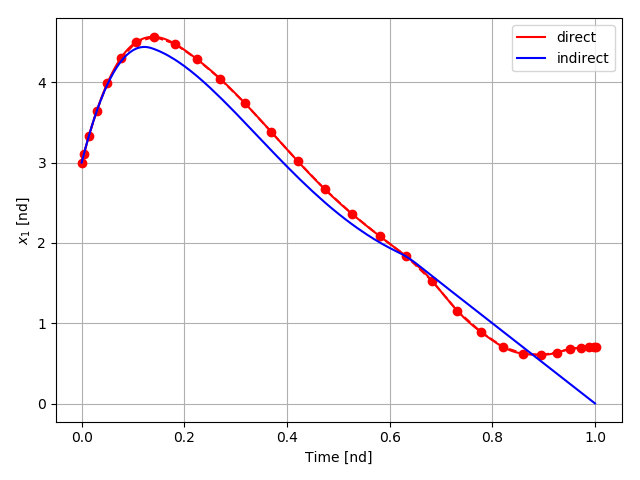
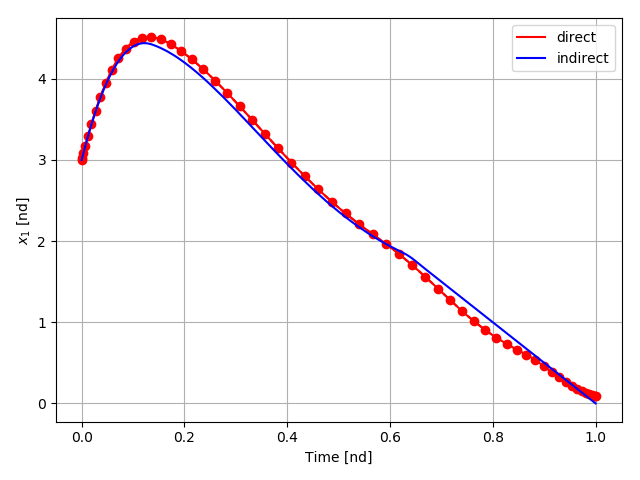
Ref None Some tweaks in solution quality and parameters

Changed region(s): [[0.0625, 0.0625, 0.9688, 0.8438], [0.75, 0.875, 0.7812, 0.9375]]

diff --git a/examples/10-financialoscillator/financialoscillator.py b/examples/10-financialoscillator/financialoscillator.py
@@ -60,7 +60,7 @@ ocp_direct.constraints().path('u', 'rad', lower=-2, upper=2, activator=None)
 ocp_direct.constraints().terminal('t - 1', 'nd')
 ocp_direct.constraints().terminal('tau - 1', 'nd')
 
-bvp_solver_direct = beluga.bvp_algorithm('Pseudospectral', number_of_nodes=30)
+bvp_solver_direct = beluga.bvp_algorithm('Pseudospectral', number_of_nodes=60)
 bvp_solver_indirect = beluga.bvp_algorithm('spbvp')
 
 guess_maker_direct = beluga.guess_generator(
@@ -96,8 +96,8 @@ sol_set_direct = beluga.solve(
 continuation_steps = beluga.init_continuation()
 
 continuation_steps.add_step('bisection') \
-    .num_cases(40, 'log') \
-    .const('epsilon1', 1e-4)
+    .num_cases(60, 'log') \
+    .const('epsilon1', 1e-6)
 
 sol_set_indirect = beluga.solve(
     ocp=ocp_indirect,
